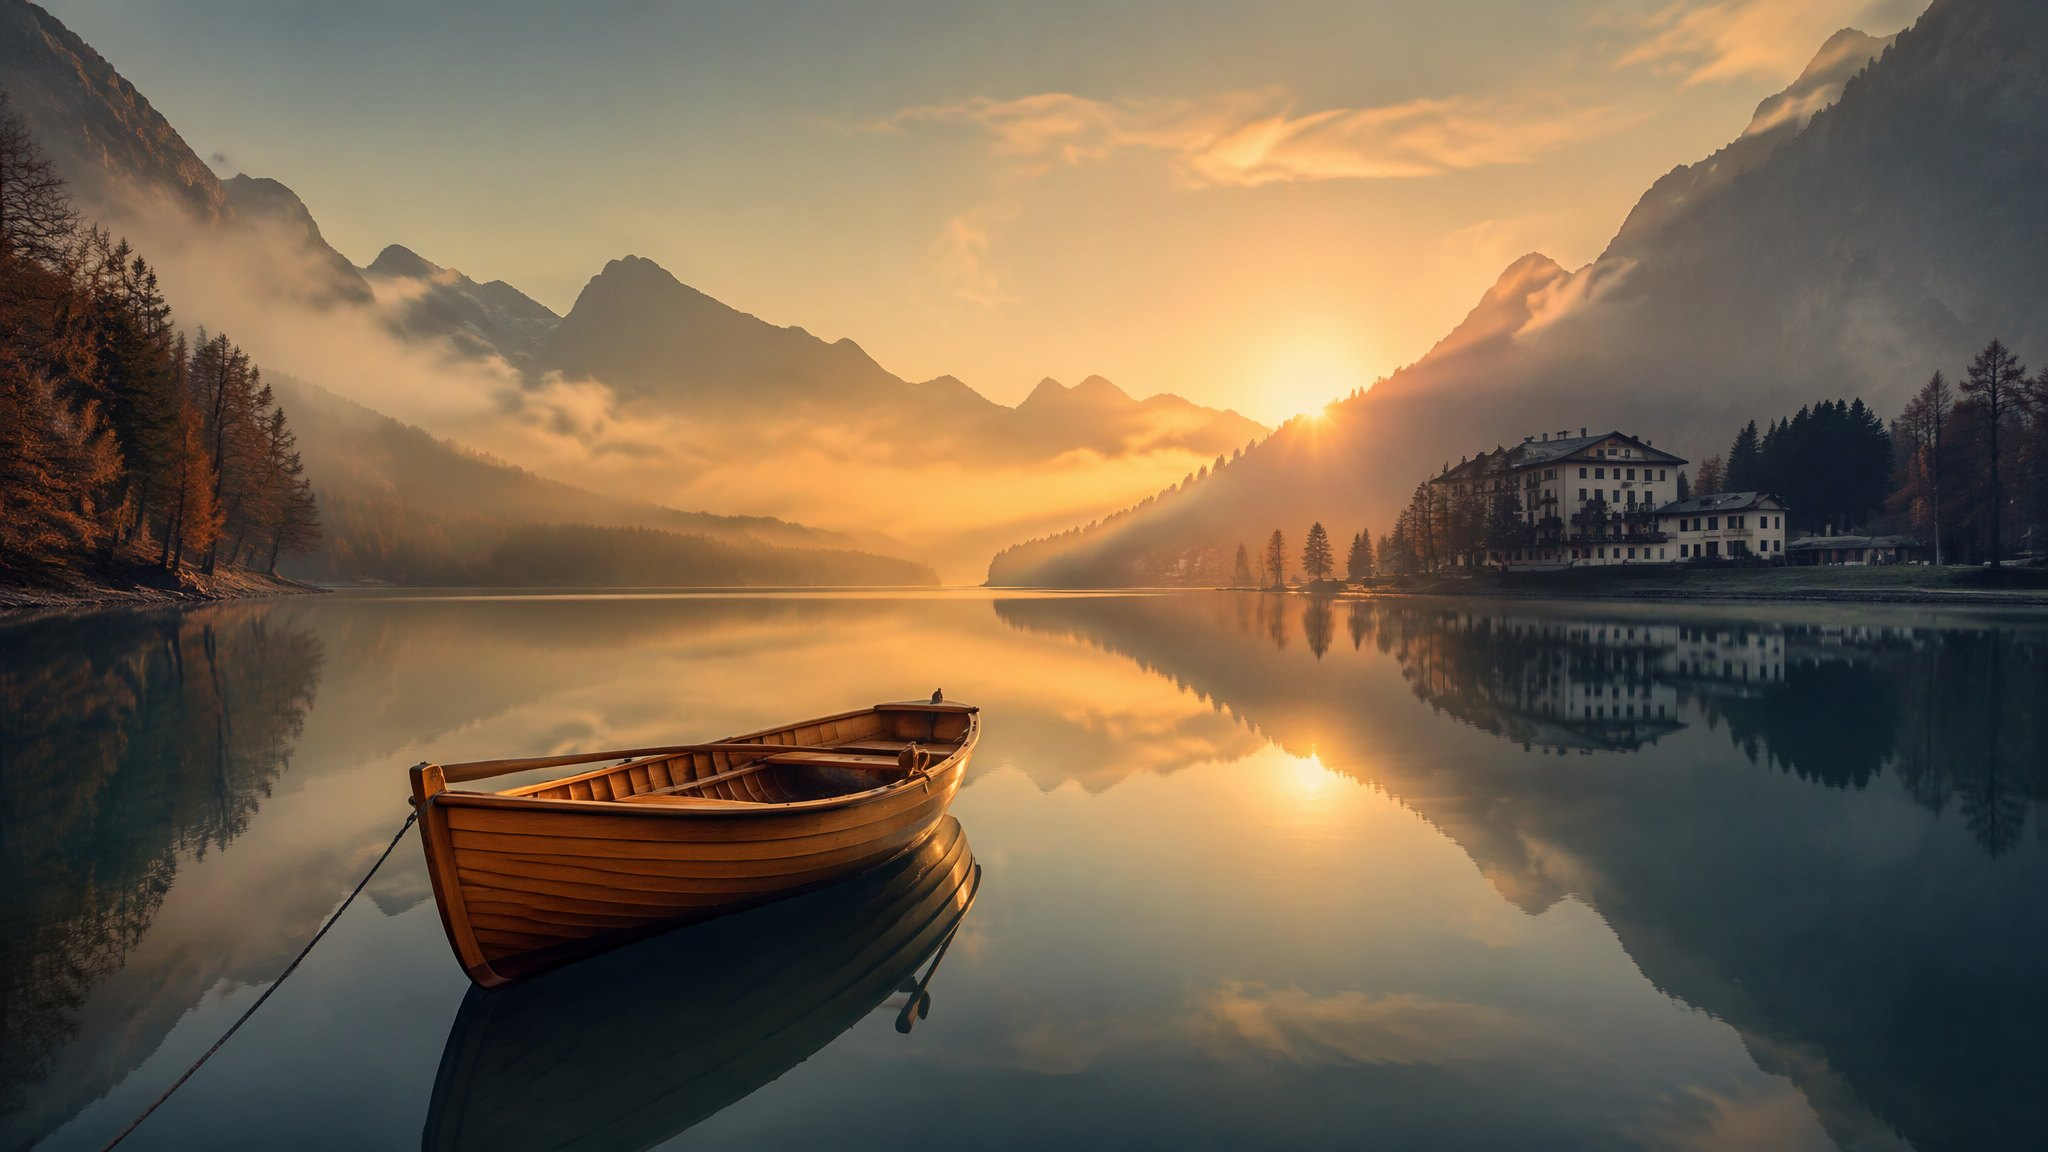
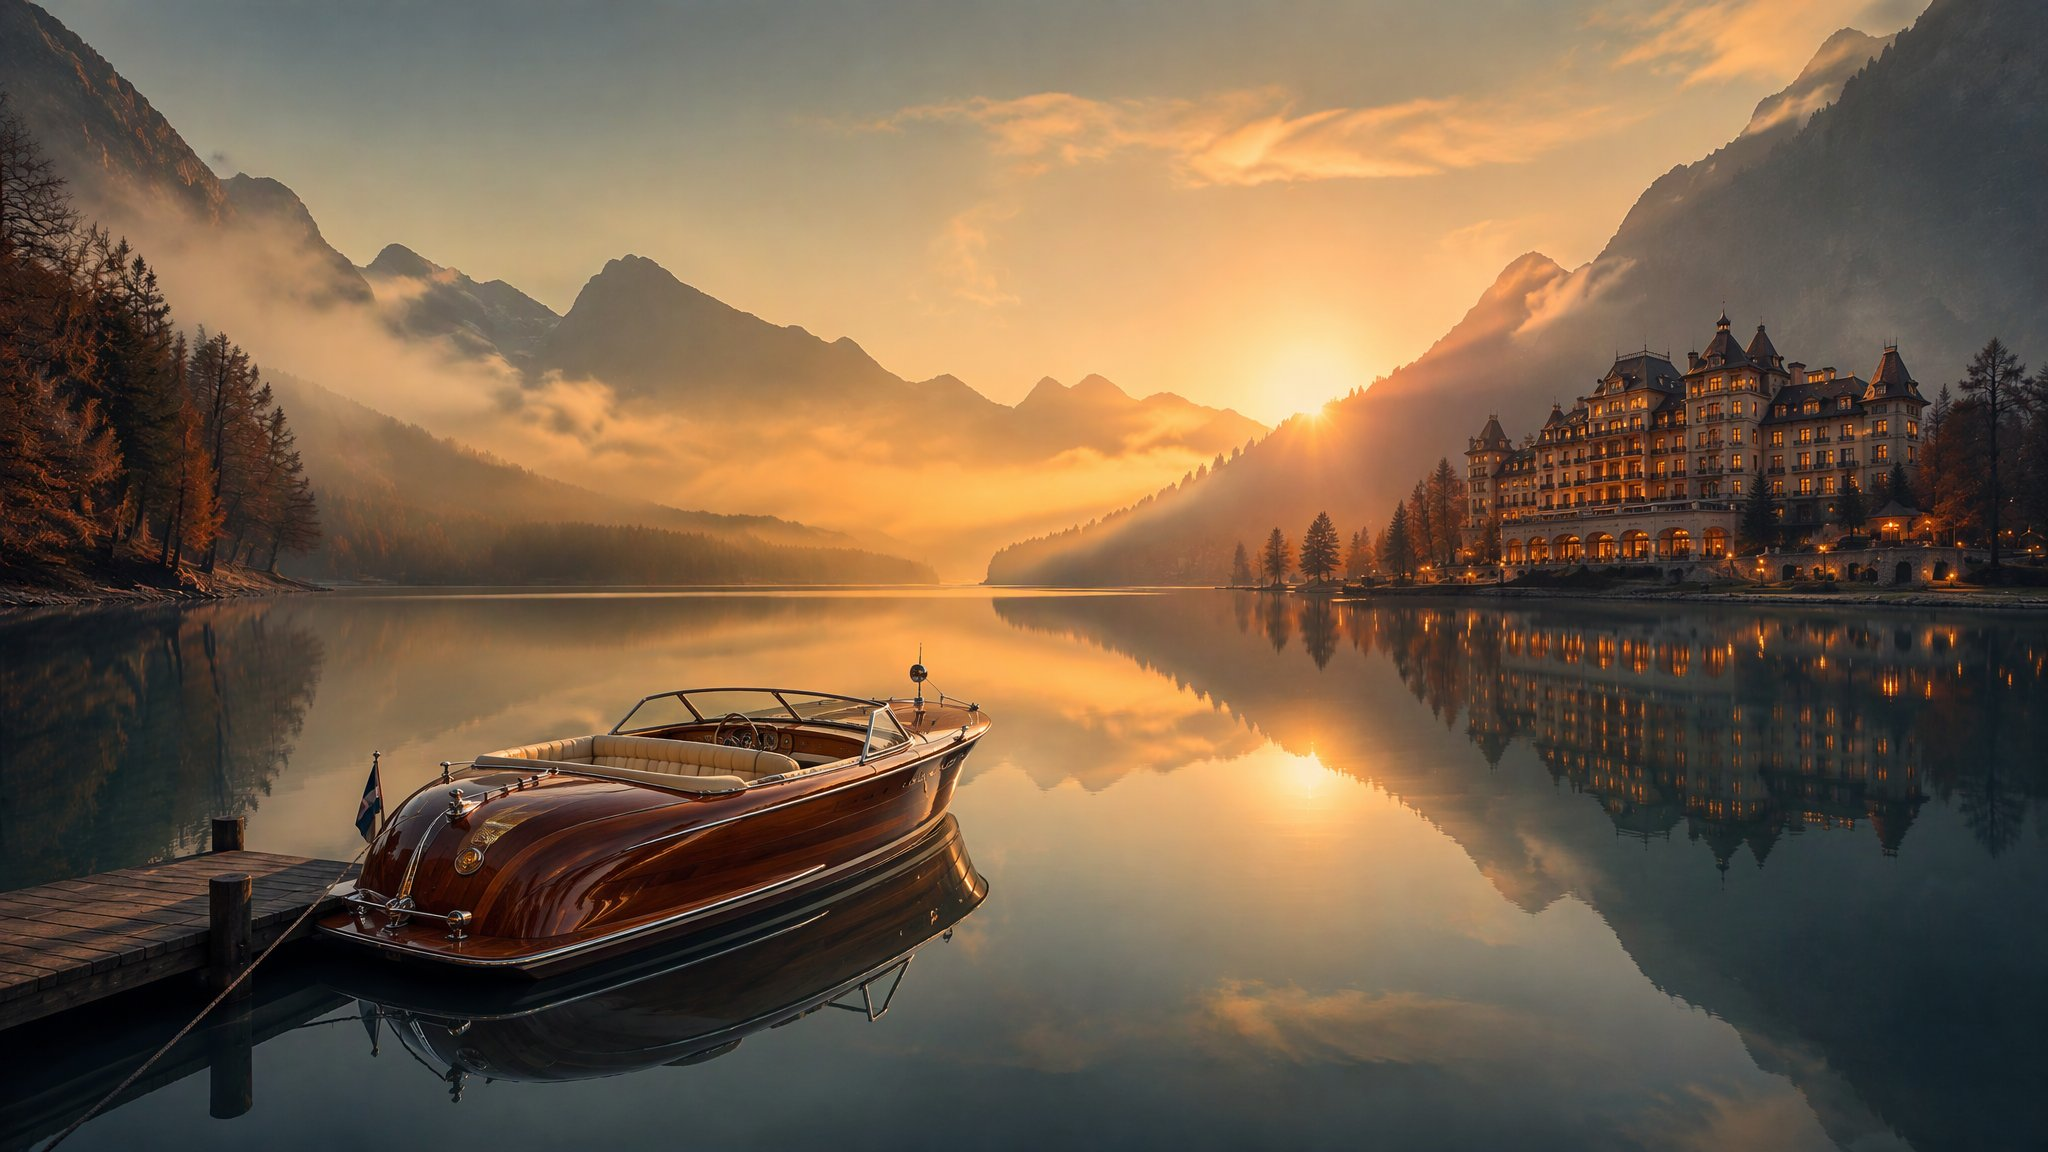
content: luxury hero, polished mahogany launch and grand lakeside hotel

diff --git a/experiences.html b/experiences.html
@@ -221,7 +221,7 @@
 
           <a class="exp-card reveal" style="--d:.1s" id="custom" href="https://wa.me/919650470279?text=Hello%20Solace%2C%20I%20would%20like%20to%20compose%20a%20fully%20custom%20journey." target="_blank" rel="noopener">
             <figure>
-              <img src="/assets/img/hero.jpg?v=2f9e89ef" alt="A lone boat on a still alpine lake at dawn" loading="lazy">
+              <img src="/assets/img/hero.jpg?v=2dcfd07c" alt="A polished mahogany launch at a private jetty on a still alpine lake at dawn" loading="lazy">
               <span class="frame" aria-hidden="true"></span>
               <figcaption class="exp-meta">
                 <span class="where">Anywhere · Your Days · Yours</span>

diff --git a/index.html b/index.html
@@ -136,7 +136,7 @@
 
     <!-- Hero -->
     <section class="hero hero-anim" aria-label="Introduction">
-      <div class="hero-media"><img src="/assets/img/hero.jpg?v=2f9e89ef" alt="Dawn mist rising over a still alpine lake, a curated luxury travel moment by Solace" fetchpriority="high"></div>
+      <div class="hero-media"><img src="/assets/img/hero.jpg?v=2dcfd07c" alt="Dawn mist over a still alpine lake, a polished mahogany launch at a private jetty and a grand lakeside hotel glowing on the shore, a curated luxury travel moment by Solace" fetchpriority="high"></div>
       <div class="wrap hero-content">
         <p class="eyebrow fade-late">Solace · A Club for the Well-Lived</p>
         <h1>
